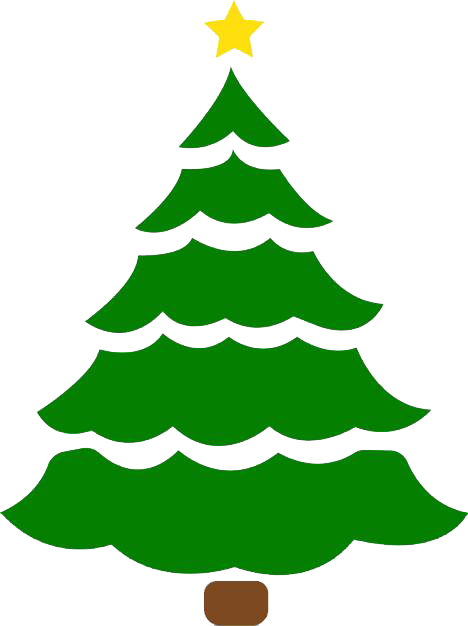
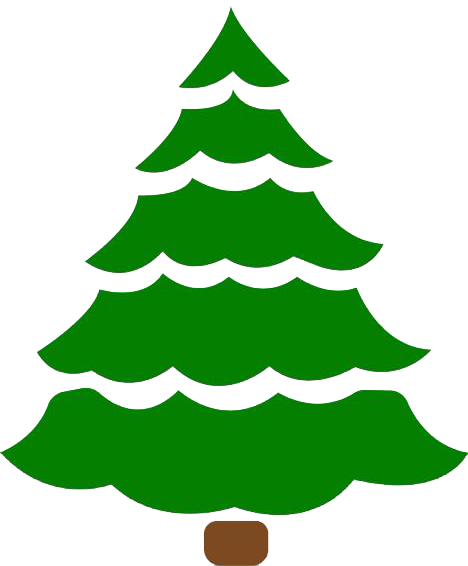
(feat): confetti when click on star

Changed region(s): [[0.0, 0.0, 1.0, 0.9311], [0.5385, 0.9912, 0.5684, 1.0]]

diff --git a/src/card/Star.js b/src/card/Star.js
@@ -1,0 +1,35 @@
+import React from "react";
+import star from "../assets/star.svg"
+import Reward from 'react-rewards';
+
+export default class Star extends React.Component {
+
+    constructor(props) {
+        super(props);
+        this.clickMe = this.clickMe.bind(this);
+      }
+    clickMe() {
+    this.reward.rewardMe();
+    }
+
+    render() {
+        return (
+            <div id="aStarIsBorn">
+                <Reward
+                    ref={(ref) => { this.reward = ref }}
+                    type='confetti'
+                    config={{
+                        lifetime: 400,
+                        spread: 100,
+                        springAnimation: true,
+                        elementCount: 70,
+                        elementSize: 16,
+                      }}
+                >
+                        <img src={star} alt="star svg" id="img_star" onClick={() => this.clickMe()}/>
+                </Reward>
+            </div>
+
+        )
+    }
+}

diff --git a/src/card/Tree.js b/src/card/Tree.js
@@ -1,6 +1,8 @@
 import React from "react";
-import christmas_tree from "../assets/christmas_tree.png"
-import Ball from "./Ball";
+import Reward from 'react-rewards';
+
+import christmas_tree_no_star from "../assets/christmas_tree_no_star.png";
+import Star from "./Star";
 
 export default function Tree() {
     let treeStyle = {
@@ -13,7 +15,8 @@ export default function Tree() {
 
     return (
         <div id="xMasTree">
-            <img src={christmas_tree} alt="christmas tree png" style={treeStyle}/>
+            <Star/>
+            <img src={christmas_tree_no_star} alt="christmas tree png" style={treeStyle}/>
         </div>
     );
 }

diff --git a/src/App.css b/src/App.css
@@ -10,8 +10,26 @@ body {
 }
 
 #xMasTree {
+  display: flex;
+  justify-content: center;
+  flex-direction: column;
+  width: 100%;
+  margin: 0 auto;
+}
+
+#aStarIsBorn {
+  display: flex;
+  justify-content: center;
+  position: relative;
+  height: 10%;
+}
+
+#img_star {
   display: block;
   margin: 0 auto;
+  width:auto;
+  height:100%;
+  max-width:100%
 }
 
 #card-front {
@@ -25,6 +43,7 @@ body {
 
 .wrap {
     display: flex;
+    justify-content: center;
     padding: 1.5em 2.5em;
     height: 100%;
     position: relative;
